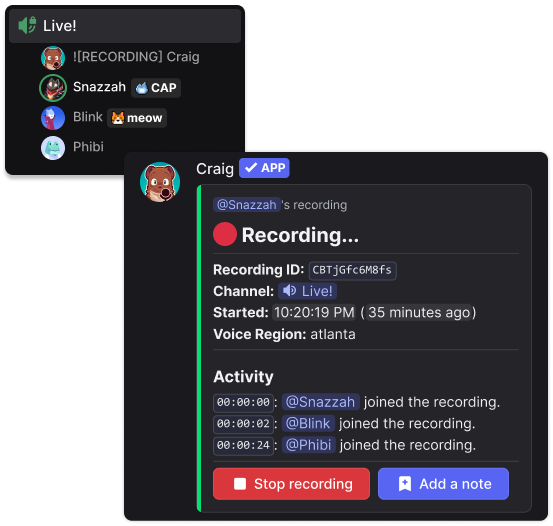
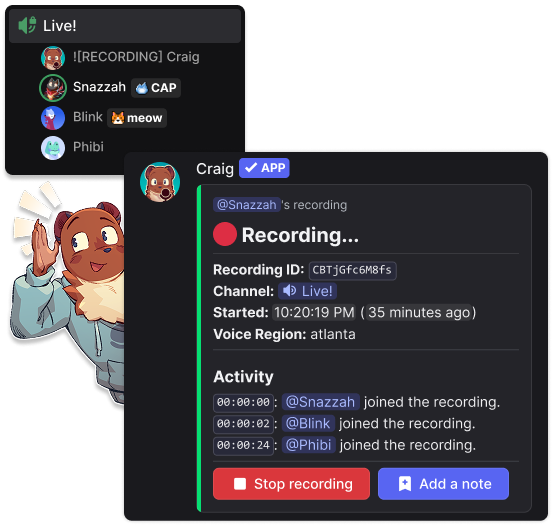
new assets!

Changed region(s): [[0.0, 0.3346, 0.2459, 0.7909]]

diff --git a/src/components/Hero.svelte b/src/components/Hero.svelte
@@ -146,9 +146,10 @@
     craigavatar?: Snippet;
     snazzahavatar?: Snippet;
     mobilehero?: Snippet;
+    mainpose?: Snippet;
     children?: Snippet;
   };
-  let { craigavatar, snazzahavatar, mobilehero }: Props = $props();
+  let { craigavatar, snazzahavatar, mobilehero, mainpose }: Props = $props();
 </script>
 
 {#snippet mention(text: string, isChannelMention = false)}
@@ -332,5 +333,9 @@
         </div>
       </div>
     </div>
+  </div>
+
+  <div class="hidden lg:flex justify-center items-center [&_img]:h-full [&_img]:w-max [&_img]:transition h-87.5 drop-shadow-sm overflow-hidden drop-shadow-black/50 transition-all {stopped ? 'grayscale opacity-25 [&_img]:-translate-x-30' : ''}">
+    {@render mainpose?.()}
   </div>
 </section>
